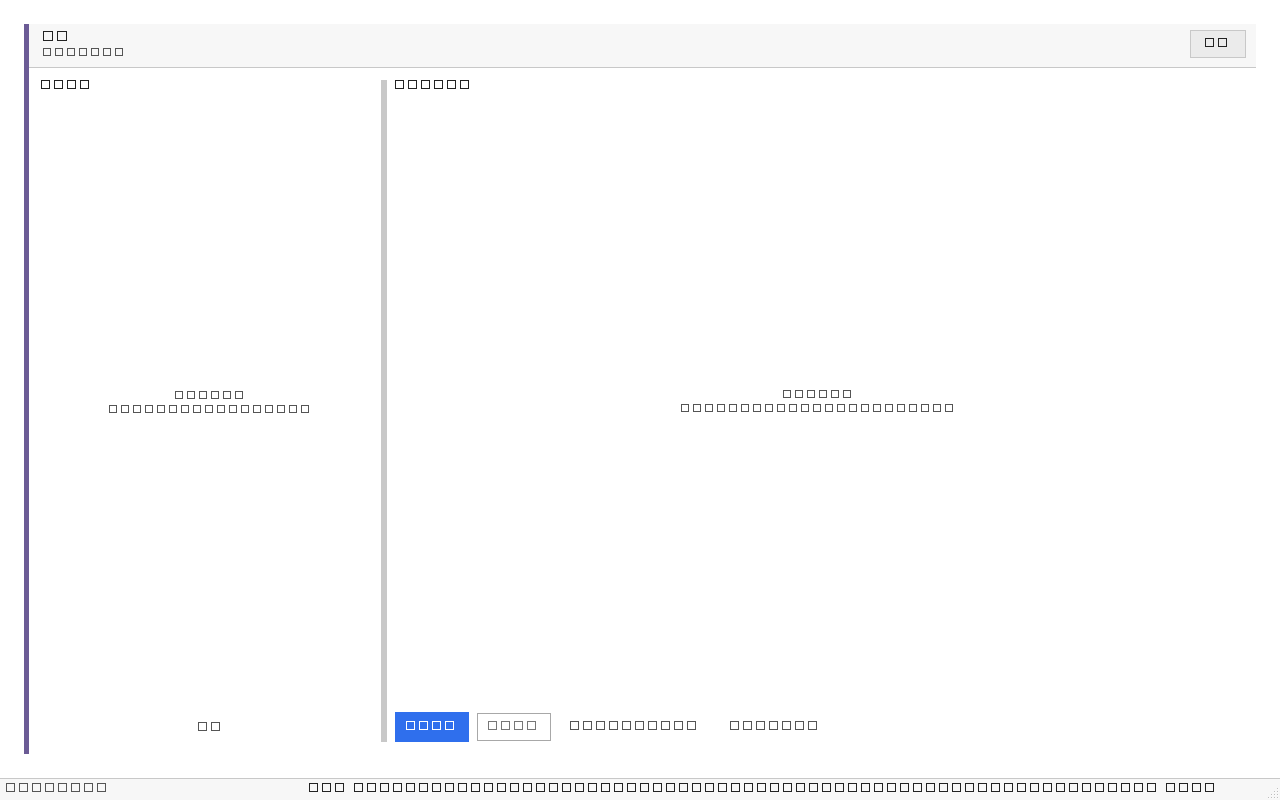
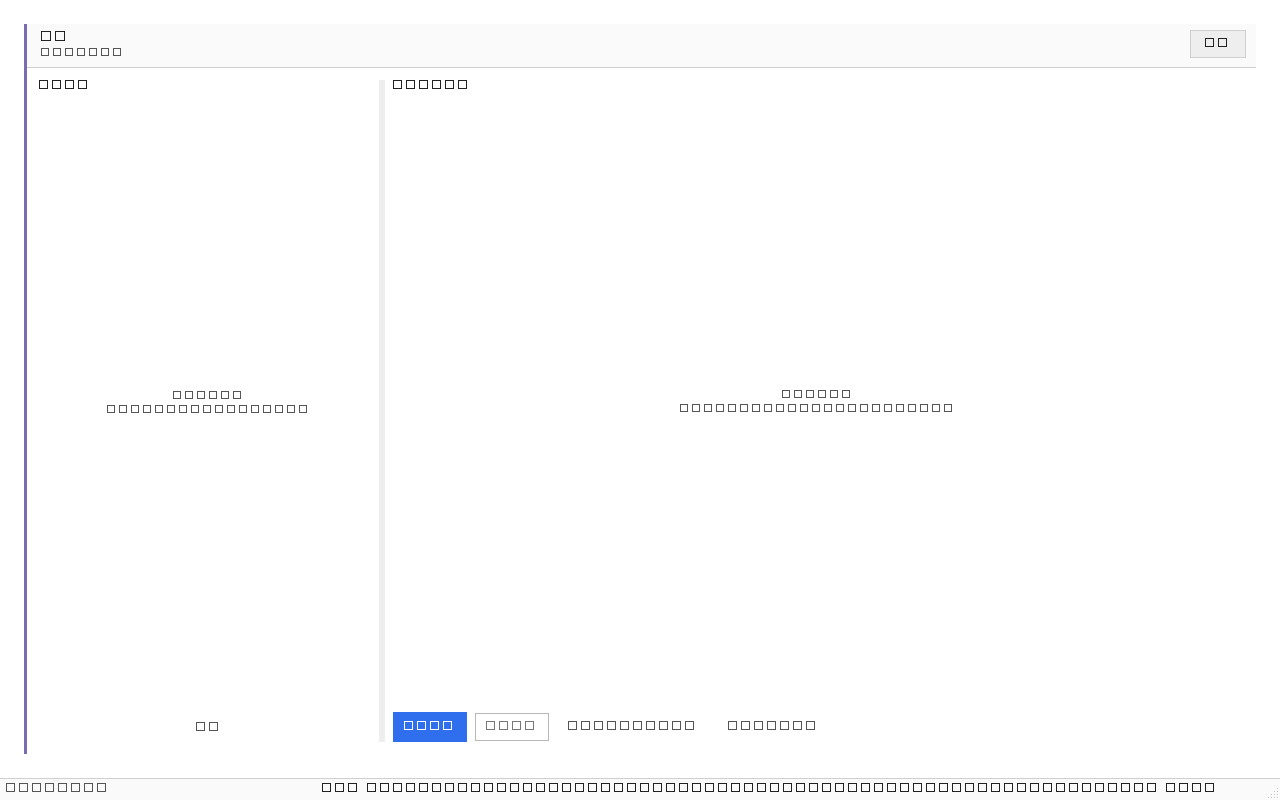
fix: 清掉石板灰强调条与深色滚动条，环境诊断改用亮色字色

Changed region(s): [[0.0, 0.0312, 0.0625, 0.9375], [0.2812, 0.0938, 0.3438, 0.9375], [0.0938, 0.5, 0.2188, 0.5312]]

diff --git a/gui/theme.py b/gui/theme.py
@@ -8,13 +8,13 @@ from PyQt6.QtWidgets import QApplication
 
 
 class Theme:
-    BG = "#F0F0F0"
-    RAIL = "#E8E8E8"
-    SURFACE = "#F7F7F7"
+    BG = "#F5F5F5"
+    RAIL = "#F0F0F0"
+    SURFACE = "#FAFAFA"
     SURFACE_2 = "#FFFFFF"
-    SURFACE_3 = "#EBEBEB"
-    BORDER = "#C8C8C8"
-    BORDER_STRONG = "#A8A8A8"
+    SURFACE_3 = "#EEEEEE"
+    BORDER = "#D0D0D0"
+    BORDER_STRONG = "#B8B8B8"
     TEXT = "#222222"
     TEXT_MUTED = "#555555"
     TEXT_DIM = "#777777"
@@ -28,6 +28,8 @@ class Theme:
     # Match white panels — no gray stage slab that reads as dark-mode leftover
     CANVAS_BG = "#FFFFFF"
     CANVAS_HINT = "#555555"
+    SCROLL_HANDLE = "#D0D0D0"
+    SCROLL_HANDLE_HOVER = "#BDBDBD"
 
 
 def apply_light_palette(app: QApplication | None = None) -> None:
@@ -70,7 +72,7 @@ def apply_light_palette(app: QApplication | None = None) -> None:
     p.setColor(QPalette.ColorRole.Midlight, QColor(Theme.SURFACE_3))
     p.setColor(QPalette.ColorRole.Mid, QColor(Theme.BORDER))
     p.setColor(QPalette.ColorRole.Dark, QColor(Theme.BORDER_STRONG))
-    p.setColor(QPalette.ColorRole.Shadow, QColor("#808080"))
+    p.setColor(QPalette.ColorRole.Shadow, QColor(Theme.BORDER_STRONG))
 
     for role in (
         QPalette.ColorRole.WindowText,
@@ -262,7 +264,7 @@ def build_stylesheet() -> str:
         border-color: {Theme.BORDER_STRONG};
     }}
     QPushButton:pressed {{
-        background: #D8D8D8;
+        background: {Theme.SURFACE_3};
     }}
     QPushButton:disabled {{
         color: {Theme.TEXT_DIM};
@@ -625,7 +627,7 @@ def build_stylesheet() -> str:
         background: {Theme.SURFACE};
     }}
     QSplitter::handle {{
-        background: {Theme.BORDER};
+        background: {Theme.SURFACE_3};
     }}
     QScrollBar:vertical {{
         background: {Theme.BG};
@@ -633,12 +635,17 @@ def build_stylesheet() -> str:
         margin: 0;
     }}
     QScrollBar::handle:vertical {{
-        background: #B8B8B8;
+        background: {Theme.SCROLL_HANDLE};
         border-radius: 0px;
         min-height: 28px;
     }}
     QScrollBar::handle:vertical:hover {{
-        background: #9A9A9A;
+        background: {Theme.SCROLL_HANDLE_HOVER};
+    }}
+    QScrollBar::add-line:vertical, QScrollBar::sub-line:vertical,
+    QScrollBar::add-page:vertical, QScrollBar::sub-page:vertical {{
+        background: transparent;
+        height: 0px;
     }}
     QScrollBar:horizontal {{
         background: {Theme.BG};
@@ -646,9 +653,17 @@ def build_stylesheet() -> str:
         margin: 0;
     }}
     QScrollBar::handle:horizontal {{
-        background: #B8B8B8;
+        background: {Theme.SCROLL_HANDLE};
         border-radius: 0px;
         min-width: 28px;
+    }}
+    QScrollBar::handle:horizontal:hover {{
+        background: {Theme.SCROLL_HANDLE_HOVER};
+    }}
+    QScrollBar::add-line:horizontal, QScrollBar::sub-line:horizontal,
+    QScrollBar::add-page:horizontal, QScrollBar::sub-page:horizontal {{
+        background: transparent;
+        width: 0px;
     }}
     QProgressBar {{
         background: {Theme.SURFACE_2};

diff --git a/gui/workflow_canvas_panel.py b/gui/workflow_canvas_panel.py
@@ -56,10 +56,10 @@ MAIN_STAGES: tuple[StageSpec, ...] = (
     StageSpec("dataset", "数据", "导入 / 划分 / data.yaml", 3, "#2F6FED", "main"),
     StageSpec("annotate", "标注", "画框 · 队列 · 保存", 0, "#1B7F5A", "main"),
     StageSpec("train", "训练", "Ultralytics 训练与监控", 1, "#C47A00", "main"),
-    StageSpec("results", "结果", "权重与训练产物", 6, "#6B5B95", "main"),
-    StageSpec("infer", "推理", "图片 · 视频 · 摄像头", 2, "#B85C38", "main"),
+    StageSpec("results", "结果", "权重与训练产物", 6, "#7B6BB0", "main"),
+    StageSpec("infer", "推理", "图片 · 视频 · 摄像头", 2, "#C97856", "main"),
     StageSpec("export", "导出", "ONNX / 部署格式", 4, "#3D7EA6", "main"),
-    StageSpec("quality", "质检", "覆盖率与检查", 5, "#5A6A7A", "main"),
+    StageSpec("quality", "质检", "覆盖率与检查", 5, "#5B8FA8", "main"),
 )
 
 # Attached helpers — double-click opens action; never run in pipeline.
@@ -69,13 +69,13 @@ SUB_STAGES: tuple[StageSpec, ...] = (
     StageSpec("format", "格式转换", "YOLO / VOC / COCO", -1, "#2F6FED", "sub", "dataset", "dialog:format"),
     StageSpec("autolabel", "自动标注", "YOLO / LLM", -1, "#1B7F5A", "sub", "annotate", "focus:annotate"),
     StageSpec("namemap", "类别映射", "模型名 ↔ 项目类", -1, "#1B7F5A", "sub", "annotate", "dialog:namemap"),
-    StageSpec("stats", "统计", "类别分布与报告", -1, "#5A6A7A", "sub", "quality", "stage:5:0"),
-    StageSpec("flow", "流程", "批量与预设", -1, "#5A6A7A", "sub", "quality", "stage:5:1"),
-    StageSpec("env", "环境", "CUDA / PyTorch", -1, "#5C6B7A", "sub", "system", "dialog:env"),
+    StageSpec("stats", "统计", "类别分布与报告", -1, "#5B8FA8", "sub", "quality", "stage:5:0"),
+    StageSpec("flow", "流程", "批量与预设", -1, "#5B8FA8", "sub", "quality", "stage:5:1"),
+    StageSpec("env", "环境", "CUDA / PyTorch", -1, "#6B8CAD", "sub", "system", "dialog:env"),
 )
 
 UTILITY_STAGES: tuple[StageSpec, ...] = (
-    StageSpec("system", "系统", "环境与本机配置", -1, "#5C6B7A", "utility", None, "dialog:env"),
+    StageSpec("system", "系统", "环境与本机配置", -1, "#6B8CAD", "utility", None, "dialog:env"),
 )
 
 ALL_STAGES: tuple[StageSpec, ...] = MAIN_STAGES + UTILITY_STAGES + SUB_STAGES
@@ -212,10 +212,10 @@ class WorkflowNode(QGraphicsRectItem):
         self.setPen(QPen(QColor(Theme.BORDER), 1.2))
         self.setCursor(Qt.CursorShape.OpenHandCursor)
 
-        accent_w = 3 if kind == "sub" else 4
+        accent_w = 3 if kind == "sub" else 3
         accent_color = QColor(spec.accent)
-        if kind == "sub":
-            accent_color.setAlpha(160)
+        if kind != "main":
+            accent_color.setAlpha(180)
         self._accent = QGraphicsRectItem(0, 0, accent_w, h, self)
         self._accent.setBrush(QBrush(accent_color))
         self._accent.setPen(QPen(Qt.PenStyle.NoPen))

diff --git a/core/env_setup.py b/core/env_setup.py
@@ -1748,17 +1748,17 @@ def format_diagnosis_summary(items: list[DiagnosisItem]) -> str:
 
 def format_diagnosis_html(items: list[DiagnosisItem]) -> str:
     """Format diagnosis items as HTML for display in env_check_dialog."""
-    colors = {"ok": "#30D158", "warning": "#FFD60A", "error": "#FF453A", "info": "#64D2FF"}
+    colors = {"ok": "#2E7D32", "warning": "#B86E00", "error": "#C62828", "info": "#2F6FED"}
     parts = []
     for item in items:
-        color = colors.get(item.level, "#8E8E93")
+        color = colors.get(item.level, "#777777")
         parts.append(f'<p><span style="color:{color}; font-weight:bold;">{item.title}</span></p>')
         if item.detail:
             for dl in item.detail.split("\n"):
-                parts.append(f'<p style="margin-left:12px; color:#98989D;">{dl}</p>')
+                parts.append(f'<p style="margin-left:12px; color:#555555;">{dl}</p>')
         if item.action:
             parts.append(
-                f'<p style="margin-left:12px; color:#64D2FF;">→ {item.action}</p>'
+                f'<p style="margin-left:12px; color:#2F6FED;">→ {item.action}</p>'
             )
     return "\n".join(parts)
 

diff --git a/gui/main_window.py b/gui/main_window.py
@@ -184,7 +184,7 @@ class MainWindow(WorkflowOpsMixin, AnnotationWorkbenchMixin, QMainWindow):
                 self._stage_meta[spec.workspace_index] = (spec.title, spec.subtitle, spec.accent)
         self._stage_meta[STAGE_PROJECT] = ("管理项目", "创建 / 打开项目", "#2F6FED")
         self._stage_meta[STAGE_VIDEO] = ("视频截帧", "抽帧进数据集", "#2F6FED")
-        self._stage_meta[STAGE_ENV] = ("环境", "CUDA / PyTorch", "#5C6B7A")
+        self._stage_meta[STAGE_ENV] = ("环境", "CUDA / PyTorch", "#6B8CAD")
         self._stage_meta[STAGE_FORMAT] = ("格式转换", "YOLO / VOC / COCO", "#2F6FED")
         self._stage_meta[STAGE_NAMEMAP] = ("类别名映射", "模型名 ↔ 项目类", "#1B7F5A")
 

diff --git a/gui/node_sheet.py b/gui/node_sheet.py
@@ -31,7 +31,7 @@ class NodeSheet(QWidget):
 
         self._accent_bar = QFrame()
         self._accent_bar.setObjectName("NodeSheetAccent")
-        self._accent_bar.setFixedWidth(5)
+        self._accent_bar.setFixedWidth(3)
         self._accent_bar.setStyleSheet(f"background: {self._accent}; border: none;")
         root.addWidget(self._accent_bar)
 
